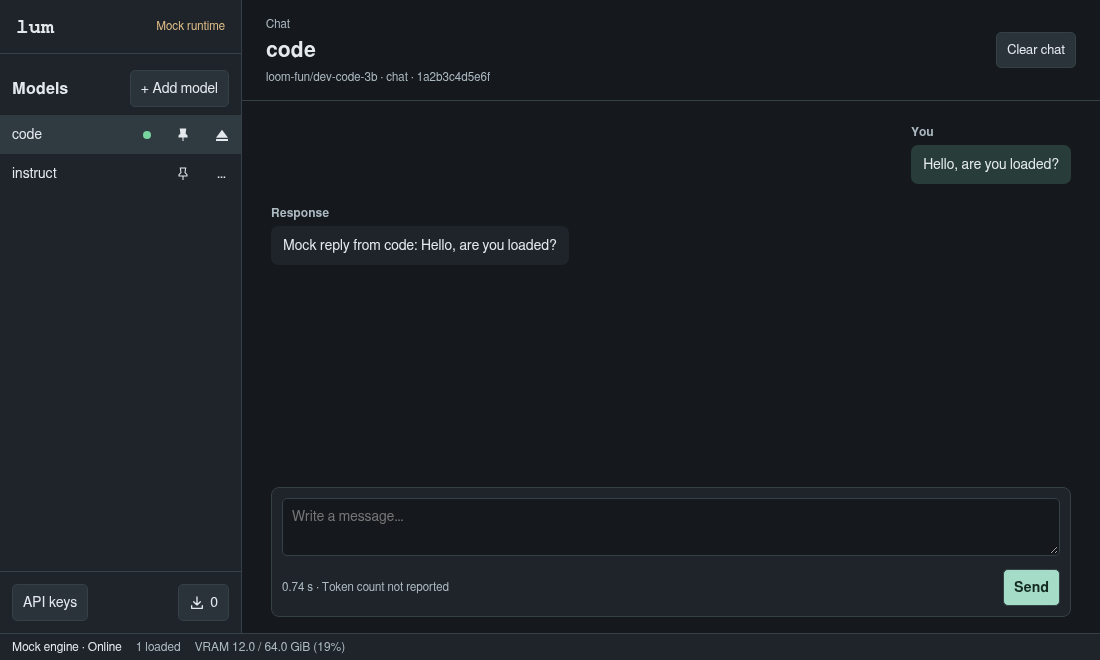
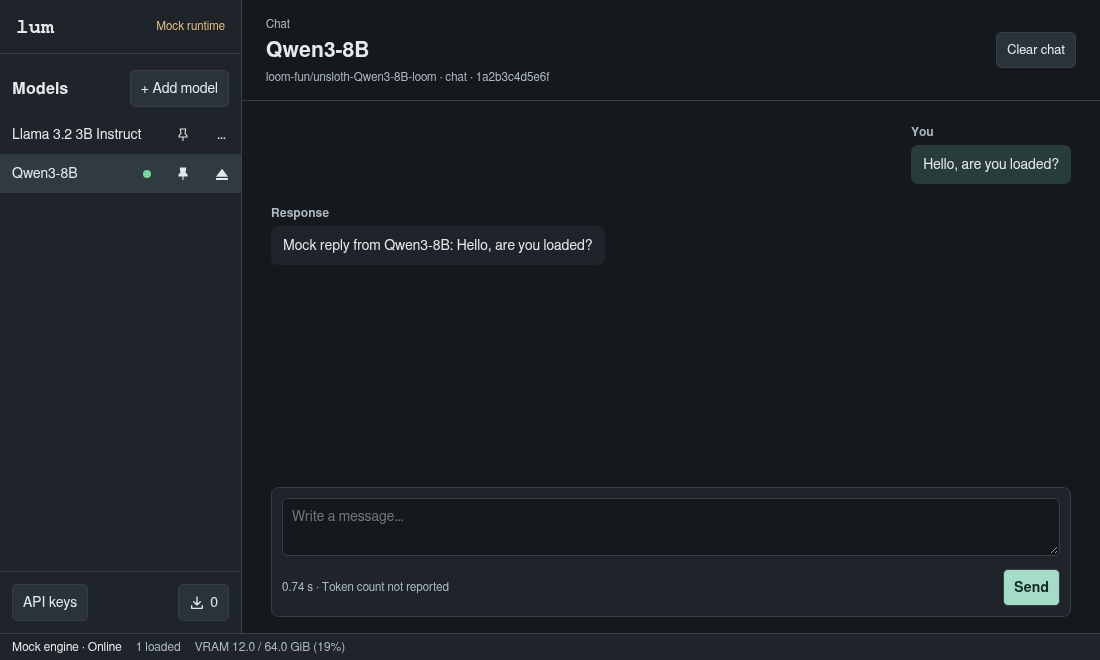
chore: use realistic model names in the preview and README screenshot

diff --git a/e2e/specs/chat.spec.ts b/e2e/specs/chat.spec.ts
@@ -17,7 +17,7 @@ test("chat, add a model in the background, switch models and manage a key", asyn
   const prompt = page.getByLabel("Message", { exact: true });
   await prompt.fill("hello");
   await prompt.press("Enter");
-  await expect(page.getByText("Mock reply from code: hello")).toBeVisible();
+  await expect(page.getByText("Mock reply from Qwen3-8B: hello")).toBeVisible();
   await prompt.fill("unsent draft");
   await page.route("**/admin/catalog", (r) =>
     r.fulfill({ json: ["loom-fun/browser-fixture"] }),
@@ -42,16 +42,18 @@ test("chat, add a model in the background, switch models and manage a key", asyn
   await expect(prompt).toHaveValue("unsent draft");
   await model.click();
   await expect(
-    page.getByRole("button", { name: "Options for code" }),
+    page.getByRole("button", { name: "Options for Qwen3-8B" }),
   ).toHaveCount(0);
-  const pin = page.getByRole("button", { name: "Pin code", exact: true });
+  const pin = page.getByRole("button", { name: "Pin Qwen3-8B", exact: true });
   await pin.click();
   await expect(pin).toHaveAttribute("aria-pressed", "true");
-  await page.getByRole("button", { name: "Unload code", exact: true }).click();
+  await page
+    .getByRole("button", { name: "Unload Qwen3-8B", exact: true })
+    .click();
   await expect(pin).toHaveAttribute("aria-pressed", "true");
   await pin.click();
   await expect(
-    page.getByRole("button", { name: "Options for code" }),
+    page.getByRole("button", { name: "Options for Qwen3-8B" }),
   ).toBeVisible();
   await expect(page.locator(".chat-head")).toContainText("chat-16gb");
   await expect(prompt).toHaveCount(0);
@@ -68,10 +70,10 @@ test("chat, add a model in the background, switch models and manage a key", asyn
   await page
     .getByRole("button", { name: "Unload browser-fixture", exact: true })
     .click();
-  await page.getByRole("link", { name: "code", exact: true }).click();
+  await page.getByRole("link", { name: "Qwen3-8B", exact: true }).click();
   await page.getByRole("button", { name: "Load model" }).click();
   await expect(prompt).toHaveValue("unsent draft");
-  await expect(page.getByText("Mock reply from code: hello")).toBeVisible();
+  await expect(page.getByText("Mock reply from Qwen3-8B: hello")).toBeVisible();
   await page.getByRole("button", { name: "Clear chat" }).click();
   await expect(prompt).toHaveValue("");
   await expect(
@@ -134,11 +136,11 @@ test("submitting clears the composer before the reply and restores it on error",
 }) => {
   let release!: () => void;
   const pending = new Promise<void>((resolve) => (release = resolve));
-  await page.route("**/admin/chat/code", async (route) => {
+  await page.route("**/admin/chat/Qwen3-8B", async (route) => {
     await pending;
     await route.fulfill({ status: 400, body: "No displayable answer" });
   });
-  await page.goto("/chat/code");
+  await page.goto("/chat/Qwen3-8B");
   const prompt = page.getByLabel("Message", { exact: true });
   await prompt.fill("retry this");
   await prompt.press("Enter");
@@ -160,7 +162,7 @@ test("reload restores an in-flight prompt without resending and reports a partia
   let requests = 0;
   let release!: () => void;
   const pending = new Promise<void>((resolve) => (release = resolve));
-  await page.route("**/admin/chat/code", async (route) => {
+  await page.route("**/admin/chat/Qwen3-8B", async (route) => {
     if (++requests === 1) {
       await pending;
       await route.abort().catch(() => {});
@@ -171,7 +173,7 @@ test("reload restores an in-flight prompt without resending and reports a partia
       body: 'data: {"choices":[{"delta":{"content":"partial text"},"finish_reason":"length"}]}\r\n\r\ndata: {"choices":[],"usage":{"completion_tokens":3}}\r\n\r\ndata: [DONE]\r\n\r\n',
     });
   });
-  await page.goto("/chat/code");
+  await page.goto("/chat/Qwen3-8B");
   const prompt = page.getByLabel("Message", { exact: true });
   await prompt.fill("continue");
   await prompt.press("Enter");
@@ -193,7 +195,7 @@ test("reload restores an in-flight prompt without resending and reports a partia
 test("Stop interrupts a live reply and keeps the visible text", async ({
   page,
 }) => {
-  await page.goto("/chat/code");
+  await page.goto("/chat/Qwen3-8B");
   const prompt = page.getByLabel("Message", { exact: true });
   await prompt.fill("word ".repeat(100) + "finalword");
   await prompt.press("Enter");
@@ -265,12 +267,14 @@ test("cancelling Add model clears the form without downloading", async ({
 });
 
 test("removal is confirmed, not triggered by navigation", async ({ page }) => {
-  await page.goto("/remove/instruct");
+  await page.goto("/remove/Llama-3-2-3B-Instruct");
   await expect(
-    page.getByRole("heading", { name: "Remove instruct?" }),
+    page.getByRole("heading", { name: "Remove Llama-3-2-3B-Instruct?" }),
   ).toBeVisible();
   await page.getByRole("link", { name: "Cancel" }).click();
-  await page.getByRole("button", { name: "Options for instruct" }).click();
+  await page
+    .getByRole("button", { name: "Options for Llama 3.2 3B Instruct" })
+    .click();
   await page.getByRole("button", { name: "Settings", exact: true }).click();
   const dialog = page.getByRole("dialog", { name: "Model settings" });
   await dialog.getByLabel("Display label").fill("My model");
@@ -278,7 +282,7 @@ test("removal is confirmed, not triggered by navigation", async ({ page }) => {
   await dialog.getByRole("button", { name: "Save" }).click();
   await expect(page.getByRole("link", { name: "My model" })).toHaveAttribute(
     "href",
-    "/chat/instruct",
+    "/chat/Llama-3-2-3B-Instruct",
   );
   await page.reload();
   await page.getByRole("button", { name: "Options for My model" }).click();
@@ -287,8 +291,10 @@ test("removal is confirmed, not triggered by navigation", async ({ page }) => {
   await expect(
     page.getByRole("navigation", { name: "Downloaded models" }),
   ).toBeVisible();
-  await expect(page.getByRole("link", { name: "code Loaded" })).toBeVisible();
-  await expect(page.getByRole("link", { name: "instruct" })).toHaveCount(0);
+  await expect(
+    page.getByRole("link", { name: "Qwen3-8B Loaded" }),
+  ).toBeVisible();
+  await expect(page.getByRole("link", { name: "My model" })).toHaveCount(0);
 });
 
 test("setup retries and continues to the requested screen", async ({

diff --git a/src/dev.rs b/src/dev.rs
@@ -129,8 +129,11 @@ pub async fn run(hot_reload: bool) -> Result<()> {
         .tempdir()?;
     let lib = Library::open(dir.path())?;
     for (a, r) in [
-        ("code", "loom-fun/dev-code-3b"),
-        ("instruct", "loom-fun/dev-instruct-1b"),
+        ("Qwen3-8B", "loom-fun/unsloth-Qwen3-8B-loom"),
+        (
+            "Llama-3-2-3B-Instruct",
+            "loom-fun/unsloth-Llama-3.2-3B-Instruct-loom",
+        ),
     ] {
         lib.reserve(a, r, "chat")?;
         stage(&lib, a).await?;
@@ -138,11 +141,12 @@ pub async fn run(hot_reload: bool) -> Result<()> {
         lib.revision(a, REV)?;
         lib.finish(a, "installed", "")?;
     }
-    lib.desired("code", true)?;
+    lib.settings("Llama-3-2-3B-Instruct", "Llama 3.2 3B Instruct", None)?;
+    lib.desired("Qwen3-8B", true)?;
     let socket = dir.path().join("mock.sock");
     let private = UnixListener::bind(&socket)?;
     let engine = Engine {
-        ready: BTreeSet::from(["code".into()]),
+        ready: BTreeSet::from(["Qwen3-8B".into()]),
         requests: 0,
     };
     let mocked = mock_engine(Arc::new(Mutex::new(engine)));

diff --git a/tests/library_ui.rs b/tests/library_ui.rs
@@ -295,7 +295,7 @@ async fn isolated_preview_workflow() -> Result<()> {
             .header("Origin", &url)
     };
     client
-        .post(format!("{url}/admin/models/code/pin"))
+        .post(format!("{url}/admin/models/Qwen3-8B/pin"))
         .header("Origin", &url)
         .send()
         .await?
@@ -308,7 +308,7 @@ async fn isolated_preview_workflow() -> Result<()> {
     assert_eq!(denied.status(), StatusCode::BAD_REQUEST);
     assert!(denied.text().await?.contains("models.max_loaded = 1"));
     client
-        .post(format!("{url}/admin/models/code/unpin"))
+        .post(format!("{url}/admin/models/Qwen3-8B/unpin"))
         .header("Origin", &url)
         .send()
         .await?
@@ -319,7 +319,7 @@ async fn isolated_preview_workflow() -> Result<()> {
             .as_array()
             .unwrap()
             .iter()
-            .any(|m| m["alias"] == "code" && m["registered"] == false)
+            .any(|m| m["alias"] == "Qwen3-8B" && m["registered"] == false)
     })
     .await?;
     let reply = client

diff --git a/README.md b/README.md
@@ -2,7 +2,7 @@
 
 Lum is a web manager for local hrx-loom chat models. One Rust service lets you download models from Hugging Face, chat with them in the browser, and serve them to OpenAI-compatible clients. Installed models share one private engine; you choose which ones to load or pin.
 
-![Lum Chat in mock mode: the code model is pinned and loaded, with its response above the message box](screenshots/library.png)
+![Lum Chat in mock mode: Qwen3-8B is pinned and loaded alongside an installed Llama 3.2 3B Instruct model, with its response above the message box](screenshots/library.png)
 
 ## Open Chat
 
